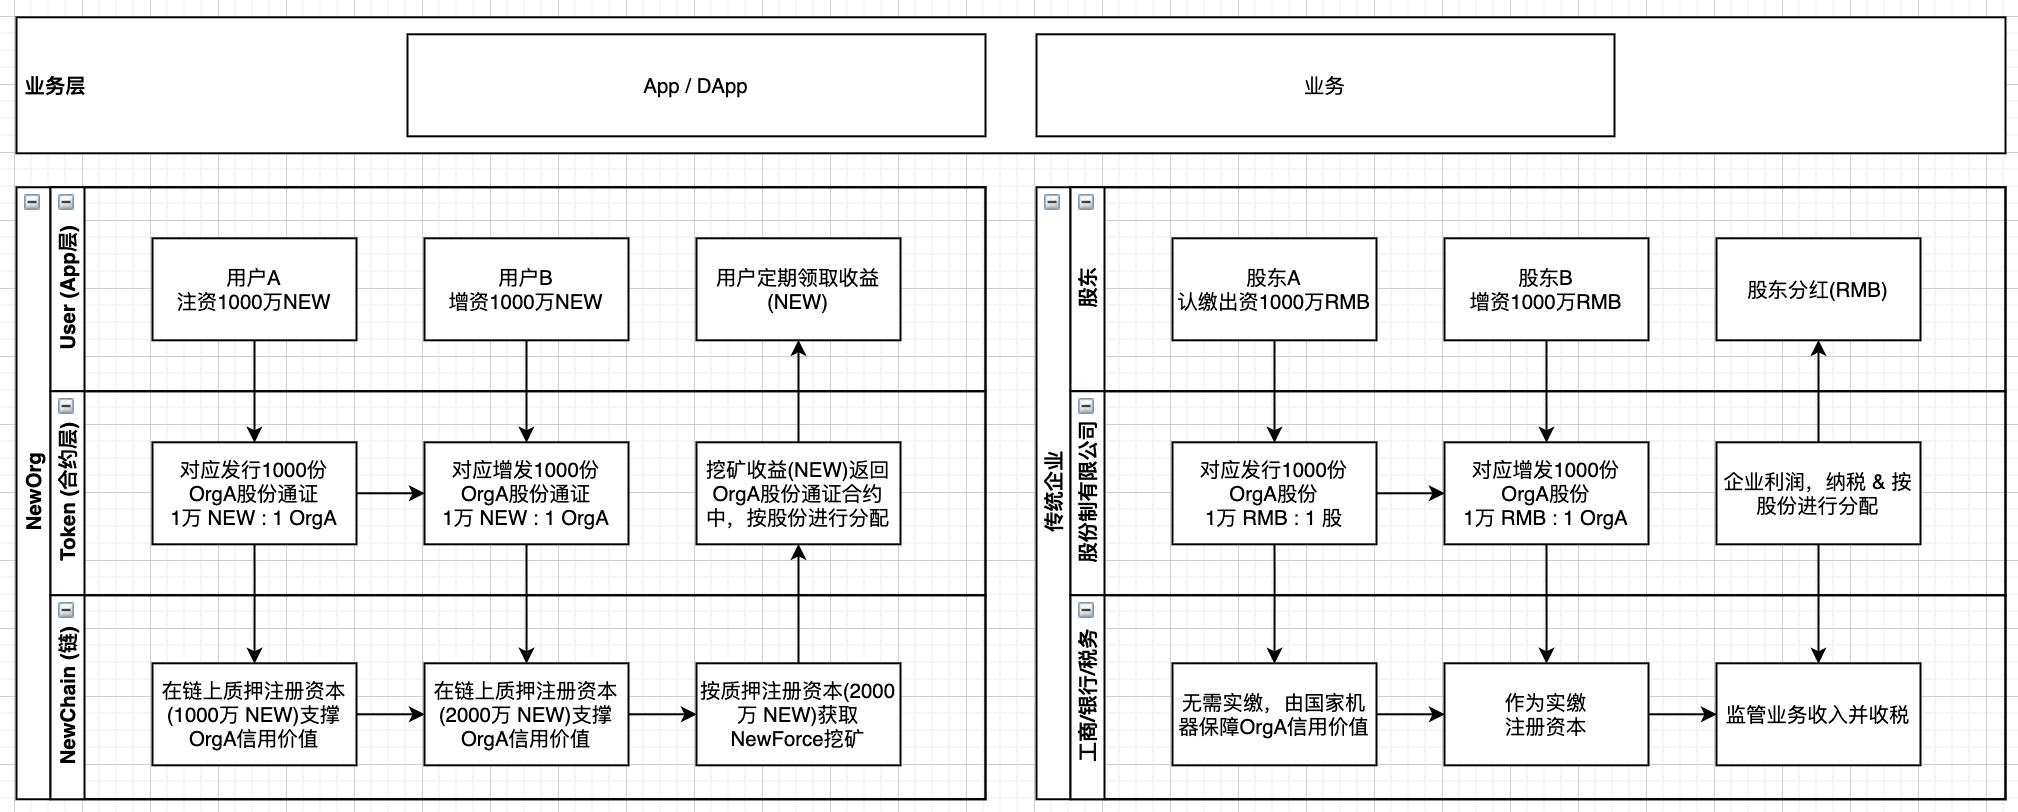
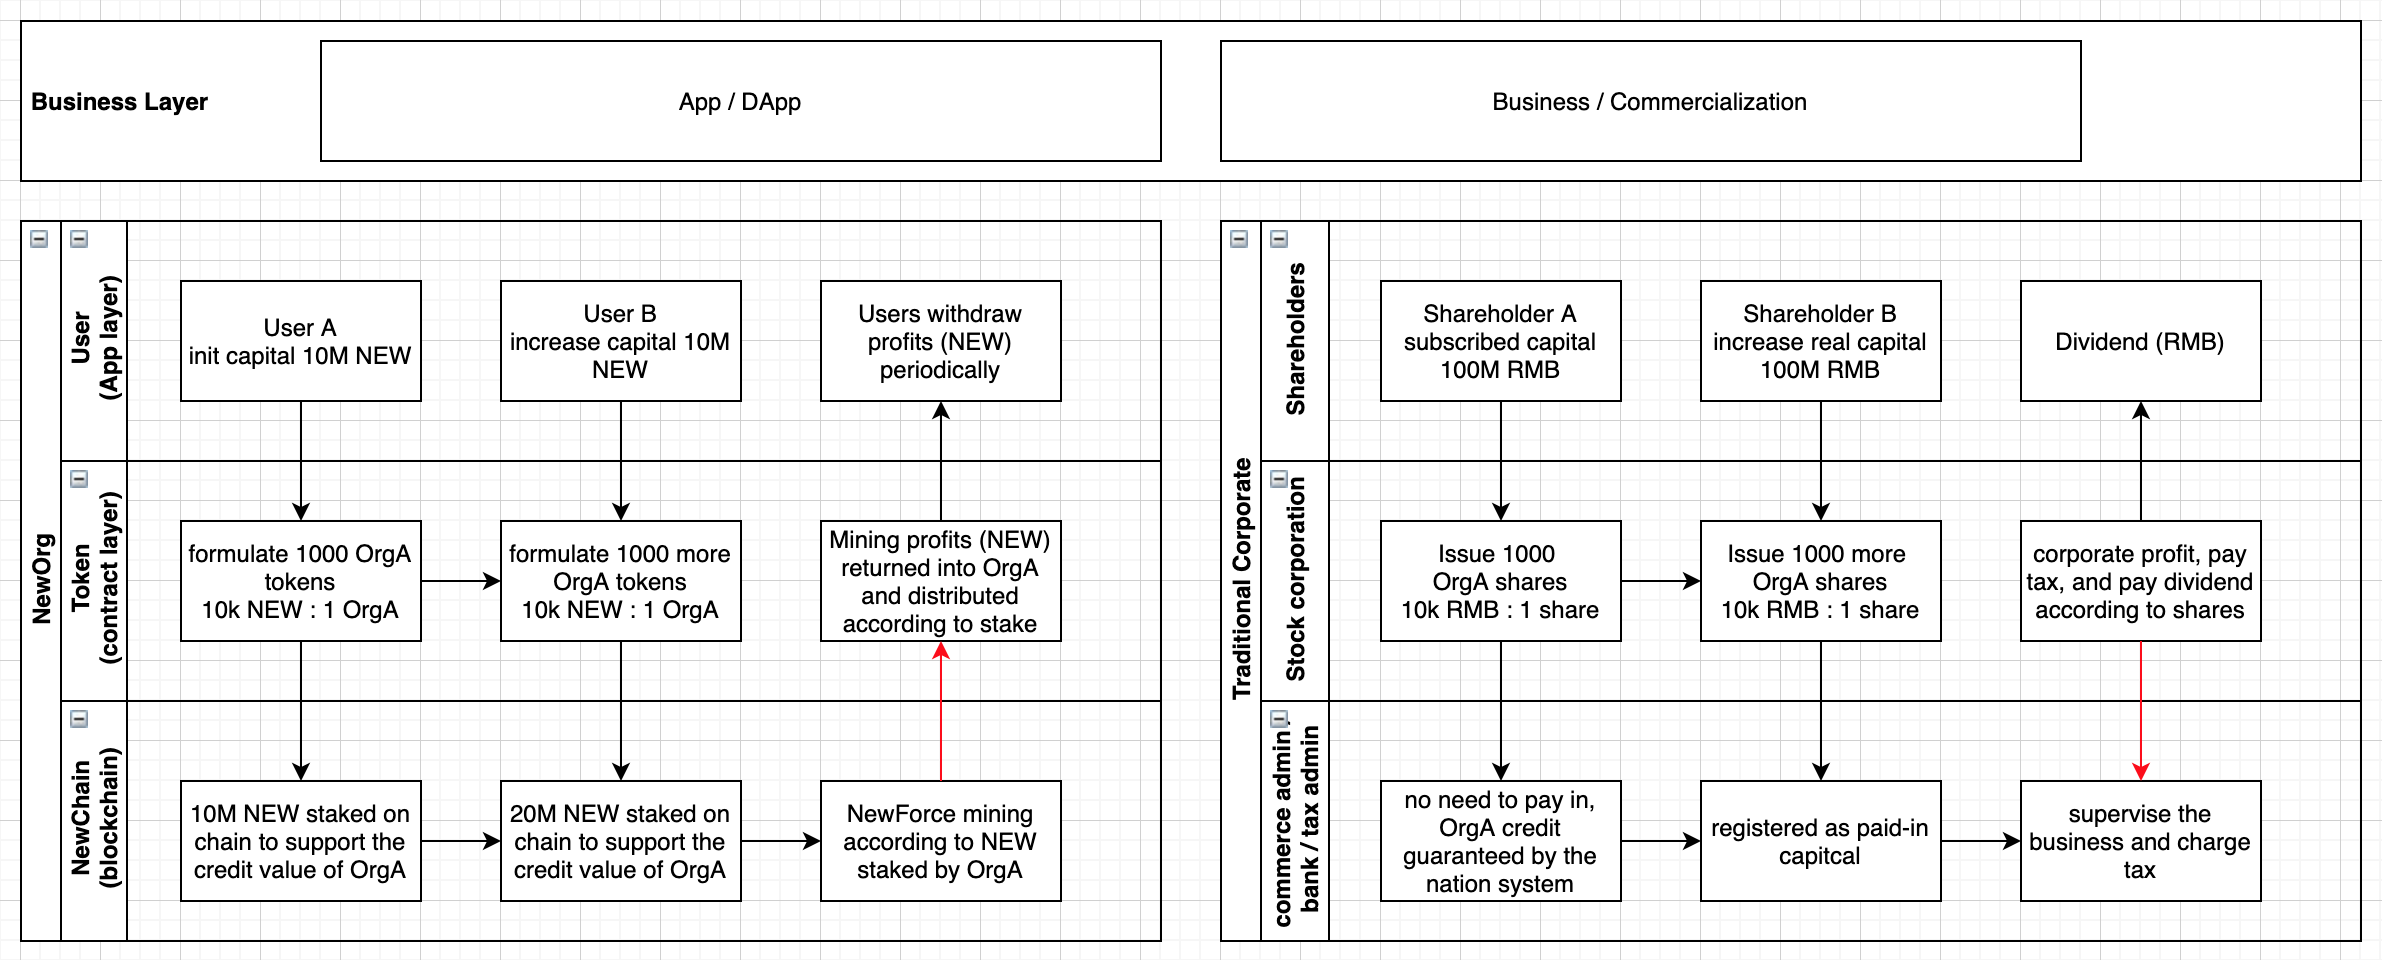
translated into English and added asset token matrix

diff --git a/NEPS/nep-NewORG-Standard.md b/NEPS/nep-NewORG-Standard.md
@@ -16,20 +16,20 @@ This is the suggested template for NewOrg NRC-X.
 
 ## Simple Summary
 
-牛顿生态体系中的生命力组织NewOrg模板是下一代社会治理和协作的NewDAO新范式。
+NewOrg template standard represents the living organization in newton ecosystem and a new DAO paradigm for the next generation social governance and collaboration.
 
 ## Abstract
 
-本标准定义了基于NewChain及其智能合约技术实现NewOrg的方法和标准：
-1. 基于NewChain及其智能合约技术
-2. 用基于区块链技术的治理新范式取代传统股份有限公司治理范式
-3. 定义一套组织治理的元规则，并将该套元规则在NewChain链层和合约层进行划分，实现了(1)元规则的业务无关性，(2)组织股份通证治理的灵活性，(3)NewChain对所有组织的抓手
-4. 该模型可兼容目前NewPay中既有的锁仓节点和NewForce挖矿模型，可以比较容易迁移过来
-5. 完全开放的标准，任何组织、机构、政府部门等都可以创建NewOrg，将中心化信用直接平移到去中心化基础设施上，成为去中心化信用
+NewOrg methods and standard based on NewChain and smart contract technologies are defined as is:
+1. based on NewChain and its smart contract technologies.
+2. to replace the traditional limited corporation with new governance paradigm based on blockchain technologies.
+3. to define a set of meta rules for organization governance, and clarify the separation of these rules between NewChain layer and contract layer to implement: (1) business irrelative meta rules; (2) flexibility of neworg governance token; (3) anchoring all neworg to NewChain.
+4. compatible with staking nodes as well as NewForce incentivization model in current NewPay for easier migration.
+5. a complete open standard for any organization, institution, goverments to create NewOrg and transfer the centralized trust to the decentralized infrastructure and trust.
 
 ## Motivation
 
-用基于NewChain区块链及其智能合约技术的治理新范式取代传统股份有限公司治理范式。见下图：
+To replace the traditional limited corporation with new governance paradigm based on blockchain technologies, illustrated as below:
 
 ![neworg_layers](assets/nep-N/neworg_layers.png)
 
@@ -40,71 +40,76 @@ This is the suggested template for NewOrg NRC-X.
 | Item | Description | Behaviors/Properties |
 |:-|:-|:-|
 |**org info:**|
-| name | 组织名称 | can not be changed |
-| type | 组织类型 | 定义：... |
-| icon | 组织头像(URL) | URL to an image |
-| region | 组织所在区域 | 国家/地区 |
-| url | 组织官网链接 | URL to org website |
-| versionTag | 组织版本 | x.y.z |
-| owner | 组织创始人 | 各种治理操作(比如扩股缩股等),规则可由合约自定义实现 |
-| description | 组织介绍 | 限定长度 XX 字节 |
-| orgStatus | 组织状态 | 允许冻结(freeze/unfreeze) |
-| stakingCapital | 组织实缴质押资本(NEW) | |
+| name | the org name | cannot be changed |
+| type | the org type | types available: TBD |
+| icon | the org icon (URL) | URL to an image |
+| region | the region of the org | country/region |
+| url | the link to the official website of the org | URL to org website |
+| versionTag | the verison of the org | x.y.z |
+| owner | the owner of the org | governance operations can be freely defined by the smart contracts |
+| description | the description text of the org | limited length: TBD bytes |
+| orgStatus | the org status | freeze/unfreeze |
+| stakingCapital | the capital (NEW) the org staked | |
 |**org token:**|
-| symbol | 组织通证(股份)代号 | 3-4个大写字母，如BTC、NMCT等, can not be changed |
-| totalSupply | 组织通证(股份)总量 | 允许增资扩股 |
-| decimals | 小数位数 | 组织通证(股份)可分粒度 |
-| stakeholders | 组织通证持有者(股东) | address => # of org tokens |
-| stakeholderTypes | 组织通证持有者(股东)类型 | address => type (0 - 失效/移除; 1 - 投票人; 2 - 合伙人) |
+| symbol | the symbol of the org token | 3-4 uppercase letters, e.g. BTC, NMCT, etc, which cannot be changed |
+| totalSupply | the total supply of the org tokens | could allow to be increased/decreased |
+| decimals | the decimals of the org token | the granularity of the org tokens |
+| stakeholders | the stakeholders having org token | address => # of org tokens |
+| stakeholderTypes | the type of the stakeholder having org token | address => type (0 - invalid; 1 - voter; 2 - partner) |
 
 ### Interaction / Functions
 
 | Function | Description | Behaviors/Properties |
 |:-|:-|:-|
 |**Owner**|
-| constructor() | 创建组织通证 | permission: owner |
-| addAdmin | 添加管理员 | permission: owner |
-| removeAdmin | 移除管理员 | permission: owner |
-| freezeOrg | 冻结组织 | permission: owner |
-| unfreezeOrg | 解冻组织 | permission: owner |
-| changeOwner | 更改创始人 | permission: owner |
-| mint | 增发组织通证 | permission: owner |
-| burn | 销毁组织通证 | permission: owner |
+| constructor() | create org token (which represents an org) | permission: owner |
+| addAdmin | add administrator | permission: owner |
+| removeAdmin | remove administrator | permission: owner |
+| freezeOrg | freeze org | permission: owner |
+| unfreezeOrg | unfreeze org | permission: owner |
+| changeOwner | change the owner of org | permission: owner |
+| mint | mint new org tokens | permission: owner |
+| burn | burn org tokens | permission: owner |
 |**Shareholders**|
-| increaseCapital() | 增资/相应增发组织通证(规则和算法由合约定义) | permission: all |
-| decreaseCapital() | 撤资/相应销毁组织通证(规则和算法由合约定义) | permission: shareholder |
-| increaseVote() | 增加投票/相应增发组织通证(规则和算法由合约定义) | permission: all |
-| decreaseVote() | 撤销投票/相应销毁组织通证(规则和算法由合约定义) | permission: shareholder voter | 
-| interestOf(address) | 查询收益数量 | |
-| withdrawInterest() | 提取收益 | permission: shareholder |
+| increaseCapital() | deposit capital and mint new org tokens | permission: all |
+| decreaseCapital() | withdraw capital and burn org tokens | permission: stakeholder |
+| increaseVote() | increate vote and mint new org tokens | permission: all |
+| decreaseVote() | decrease vote and burn org tokens | permission: stakeholder voter | 
+| interestOf(address) | query the profit | |
+| withdrawInterest() | withdraw the profit | permission: stakeholder |
 |**Query**|
-| balanceOf(address) | 查询持有量 | 持有组织通证(股份)即为组织一员 |
-| transfer(from, to) | 转移组织通证所有权 | |
-| approve(spender, value) | 授权他人操作我持有的组织通证 | |
-| allowance(owner, spender) | 查看授权情况 | |
-| transferFrom(from, to, value) | 转移授权人持有的组织通证 | |
-| totalSupply | 查询组织通证总量(总股数) | |
-| name | 查询组织名称 |  |
-| symbol | 查询组织通证(股份)代号 |  |
-| totalSupply | 查询组织通证(股份)总量 |  |
-| decimals | 查询小数位数 | 组织通证(股份)可分粒度 |
-| owner | 查询组织创始人 |  |
-| isShareholder(address) | 查询是否组织通证持有者(组织成员/股东) | |
-| shareholderTypeOf(address) | 查询组织成员/股东类型 | (0 - 失效/移除; 1 - 投票人; 2 - 合伙人) |
-| stakingCapital | 组织实缴质押资本(NEW) | |
-| orgStatus | 组织状态 | 允许冻结(freeze/unfreeze) |
+| balanceOf(address) | query the balance | having org token (stake) to be an org member |
+| transfer(from, to) | transfer the ownership of org tokens | |
+| approve(spender, value) | delegate others to operate my org tokens | |
+| allowance(owner, spender) | check the delegation status | |
+| transferFrom(from, to, value) | transfer org tokens of who delegates | |
+| totalSupply | query the total stake of the org | |
+| name | query the org name |  |
+| symbol | query the symbol of the org token (stake) |  |
+| decimals | query the decimals of the org token | granularity of the org token |
+| owner | query the owner of the org |  |
+| isStakeholder(address) | query if having org token | |
+| stakeholderTypeOf(address) | query the type of the stakeholder | (0 - invalid; 1 - voter; 2 - partner) |
+| stakingCapital | the amount of capital (NEW) the org staked | |
+| orgStatus | the org status | freeze/unfreeze |
 
 ## Issues
 
-- Q: 是否允许只创建org而不定义org token？
-- A: 由产品具体实现确定。对于Newton App的实现而言是允许的。
+- Q: Should it be allowed to create org without defining org token?
+	* A: It depends on the concreate product implementation.
 
-- Q: 是否允许不创建org而创建其他种类的token？
-- A: 由产品具体实现确定。对于Newton App的实现而言，token必须关联/隶属于某一个org。
+- Q: Should it be allowed to create asset tokens without linking with an org token?
+	* A: It depends on the concreate product implementation.
 
 ## Rationale
 
 ![org_token_logic](assets/nep-N/org_token_logic.png)
+
+## Asset Token Matrix
+
+Possible asset tokens could be formulated with the following Boston matrix:
+
+![asset_token_matrix](assets/nep-N/asset_token_matrix.png)
 
 ## Test Cases
 TBD
